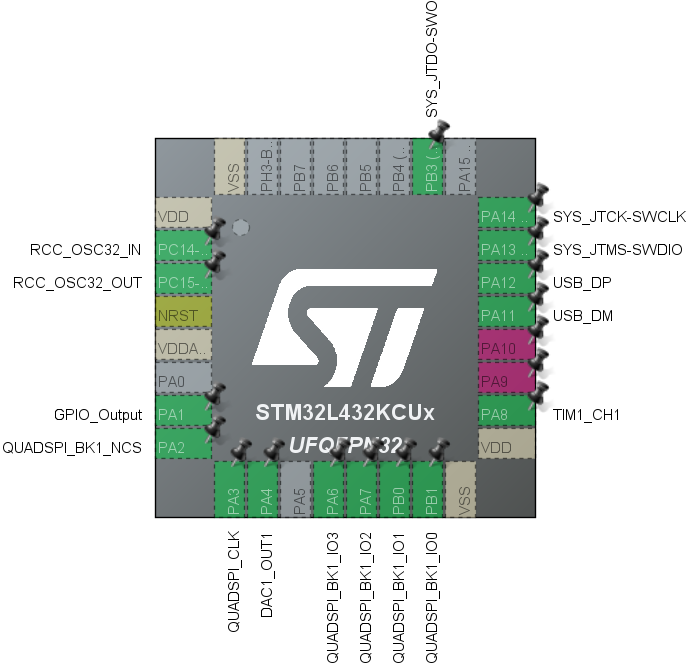
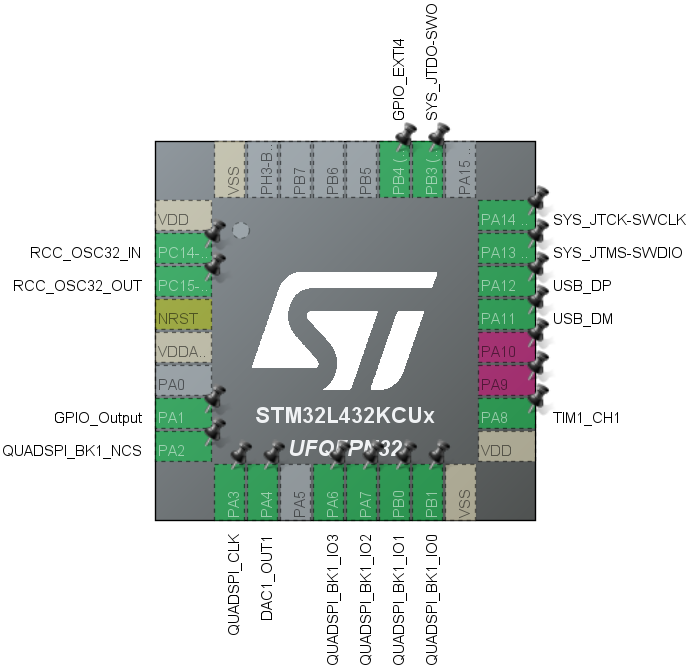
Add improved button EXTI4 config

diff --git a/firmware/Core/Src/stm32l4xx_it.c b/firmware/Core/Src/stm32l4xx_it.c
@@ -204,6 +204,20 @@ void SysTick_Handler(void)
 /******************************************************************************/
 
 /**
+  * @brief This function handles EXTI line4 interrupt.
+  */
+void EXTI4_IRQHandler(void)
+{
+  /* USER CODE BEGIN EXTI4_IRQn 0 */
+
+  /* USER CODE END EXTI4_IRQn 0 */
+  HAL_GPIO_EXTI_IRQHandler(GPIO_PIN_4);
+  /* USER CODE BEGIN EXTI4_IRQn 1 */
+
+  /* USER CODE END EXTI4_IRQn 1 */
+}
+
+/**
   * @brief This function handles DMA1 channel1 global interrupt.
   */
 void DMA1_Channel1_IRQHandler(void)

diff --git a/firmware/Core/Src/main.c b/firmware/Core/Src/main.c
@@ -625,6 +625,16 @@ static void MX_GPIO_Init(void)
   GPIO_InitStruct.Speed = GPIO_SPEED_FREQ_LOW;
   HAL_GPIO_Init(GPIOA, &GPIO_InitStruct);
 
+  /*Configure GPIO pin : PB4 */
+  GPIO_InitStruct.Pin = GPIO_PIN_4;
+  GPIO_InitStruct.Mode = GPIO_MODE_IT_FALLING;
+  GPIO_InitStruct.Pull = GPIO_NOPULL;
+  HAL_GPIO_Init(GPIOB, &GPIO_InitStruct);
+
+  /* EXTI interrupt init*/
+  HAL_NVIC_SetPriority(EXTI4_IRQn, 0, 0);
+  HAL_NVIC_EnableIRQ(EXTI4_IRQn);
+
   /* USER CODE BEGIN MX_GPIO_Init_2 */
 
   /* USER CODE END MX_GPIO_Init_2 */

diff --git a/firmware/Core/Inc/stm32l4xx_it.h b/firmware/Core/Inc/stm32l4xx_it.h
@@ -55,6 +55,7 @@ void SVC_Handler(void);
 void DebugMon_Handler(void);
 void PendSV_Handler(void);
 void SysTick_Handler(void);
+void EXTI4_IRQHandler(void);
 void DMA1_Channel1_IRQHandler(void);
 void DMA1_Channel2_IRQHandler(void);
 void DMA1_Channel3_IRQHandler(void);

diff --git a/README.md b/README.md
@@ -86,6 +86,7 @@ STM32L432KC alarm clock lamp with optional backup source.
 | PB0         | `QUADSPI_BK1_IO1` |                      | W25Q128JVSIQ Pin 2: `IO1`             |                                                              |
 | PA7         | `QUADSPI_BK1_IO2` | Hardware pull-up     | W25Q128JVSIQ Pin 3: `IO2`             | Hardware pull-up for potential bringup from SPI single-line. |
 | PA6         | `QUADSPI_BK1_IO3` | Hardware pull-up     | W25Q128JVSIQ Pin 7: `IO3`             | Hardware pull-up for potential bringup from SPI single-line. |
+| PB4         | `GPIO_EXTI4`      | Hardware pull-up     | Generic Push Button Active Low pin    |                                                              |
 
 </details>
 
